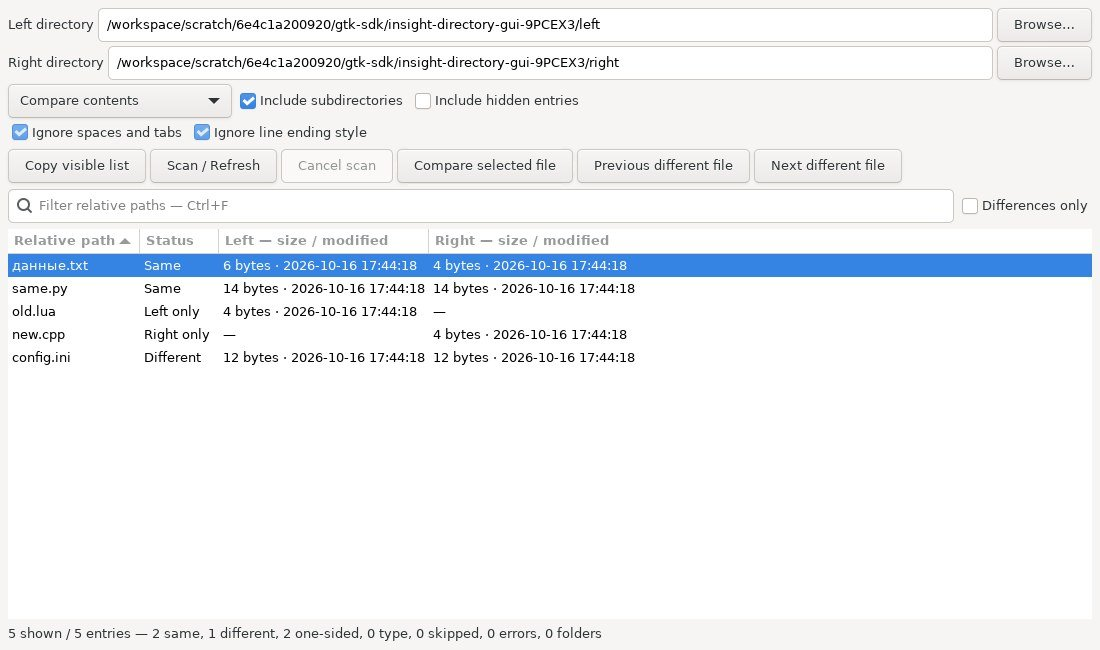
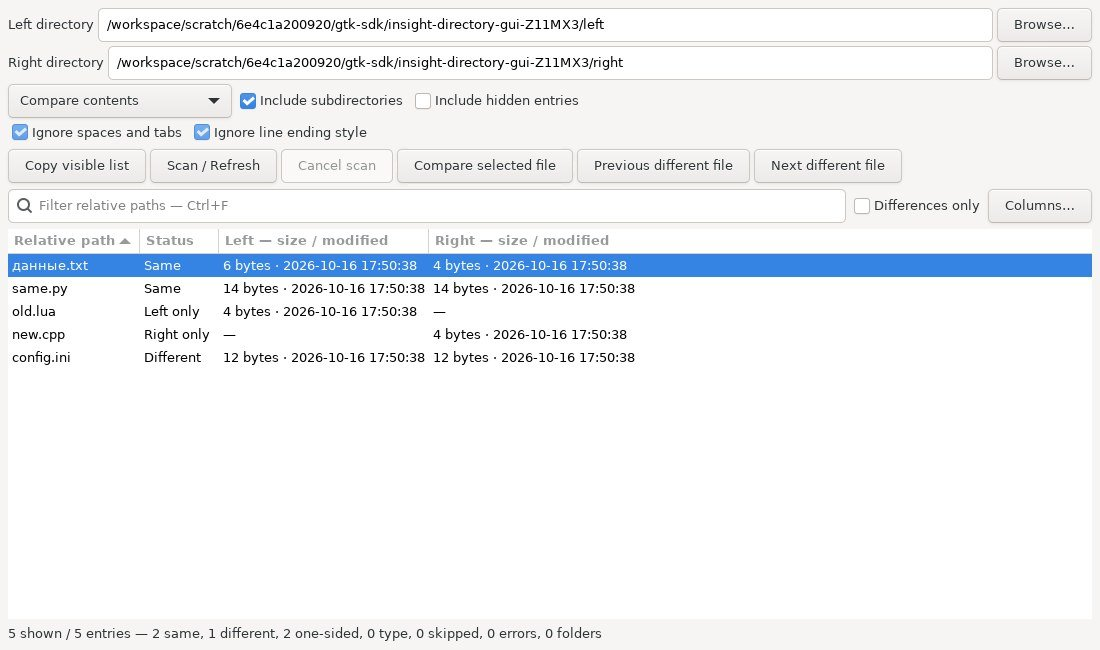
Add Directory Compare column visibility controls

diff --git a/src/insight-directory.c b/src/insight-directory.c
@@ -194,6 +194,17 @@ static gboolean mouse(GtkWidget *widget,GdkEventButton *event,gpointer data) {
  if(gtk_tree_view_get_path_at_pos(GTK_TREE_VIEW(widget),(gint)event->x,(gint)event->y,&path,NULL,NULL,NULL)) { gtk_tree_view_set_cursor(GTK_TREE_VIEW(widget),path,NULL,FALSE);gtk_tree_path_free(path); }
  gtk_menu_popup_at_pointer(GTK_MENU(context_menu(data)),(GdkEvent*)event);return TRUE;
 }
+static void column_toggled(GtkCheckMenuItem *item,gpointer column) { gtk_tree_view_column_set_visible(GTK_TREE_VIEW_COLUMN(column),gtk_check_menu_item_get_active(item)); }
+static GtkWidget *columns_menu(Directory *d) {
+ GtkWidget *menu=gtk_menu_new();GList *columns=gtk_tree_view_get_columns(GTK_TREE_VIEW(d->view));guint i=0;
+ for(GList *p=columns;p;p=p->next,i++) {
+  GtkTreeViewColumn *column=p->data;GtkWidget *item=gtk_check_menu_item_new_with_label(gtk_tree_view_column_get_title(column));
+  gtk_check_menu_item_set_active(GTK_CHECK_MENU_ITEM(item),gtk_tree_view_column_get_visible(column));gtk_widget_set_sensitive(item,i!=0);
+  gtk_menu_shell_append(GTK_MENU_SHELL(menu),item);g_signal_connect(item,"toggled",G_CALLBACK(column_toggled),column);
+ }
+ g_list_free(columns);g_signal_connect_swapped(menu,"selection-done",G_CALLBACK(gtk_widget_destroy),menu);gtk_menu_attach_to_widget(GTK_MENU(menu),d->view,NULL);gtk_widget_show_all(menu);return menu;
+}
+static void show_columns(GtkWidget *widget,gpointer data) { gtk_menu_popup_at_widget(GTK_MENU(columns_menu(data)),widget,GDK_GRAVITY_SOUTH_WEST,GDK_GRAVITY_NORTH_WEST,NULL); }
 static void method_changed(GtkComboBox *combo,gpointer data) {
  Directory *d=data;gboolean text=gtk_combo_box_get_active(combo)==INSIGHT_DIR_CONTENT;
  gtk_widget_set_sensitive(d->space,text);gtk_widget_set_sensitive(d->eol,text);
@@ -226,7 +237,7 @@ static Directory *directory_new(GtkWidget *parent) {
  GtkWidget *bar=gtk_box_new(GTK_ORIENTATION_HORIZONTAL,4);gtk_box_pack_start(GTK_BOX(box),bar,FALSE,FALSE,0);
  button(bar,"Copy visible list",G_CALLBACK(copy_list),d);
  d->scan=button(bar,"Scan / Refresh",G_CALLBACK(start),d);gtk_widget_set_name(d->scan,"insight-directory-scan");d->cancel_button=button(bar,"Cancel scan",G_CALLBACK(cancel_scan),d);d->open=button(bar,"Compare selected file",G_CALLBACK(open_pair),d);gtk_widget_set_name(d->open,"insight-directory-open");d->previous=button(bar,"Previous different file",G_CALLBACK(step),d);d->next=button(bar,"Next different file",G_CALLBACK(step),d);
- GtkWidget *filters=gtk_box_new(GTK_ORIENTATION_HORIZONTAL,4);gtk_box_pack_start(GTK_BOX(box),filters,FALSE,FALSE,0);d->filter_entry=gtk_search_entry_new();gtk_entry_set_placeholder_text(GTK_ENTRY(d->filter_entry),"Filter relative paths — Ctrl+F");gtk_box_pack_start(GTK_BOX(filters),d->filter_entry,TRUE,TRUE,0);d->different=check(filters,"Differences only",FALSE);
+ GtkWidget *filters=gtk_box_new(GTK_ORIENTATION_HORIZONTAL,4);gtk_box_pack_start(GTK_BOX(box),filters,FALSE,FALSE,0);d->filter_entry=gtk_search_entry_new();gtk_entry_set_placeholder_text(GTK_ENTRY(d->filter_entry),"Filter relative paths — Ctrl+F");gtk_box_pack_start(GTK_BOX(filters),d->filter_entry,TRUE,TRUE,0);d->different=check(filters,"Differences only",FALSE);button(filters,"Columns…",G_CALLBACK(show_columns),d);
  d->store=gtk_list_store_new(DC_COLUMNS,G_TYPE_UINT,G_TYPE_STRING,G_TYPE_STRING,G_TYPE_STRING,G_TYPE_STRING,G_TYPE_STRING,G_TYPE_INT,G_TYPE_BOOLEAN);
  d->filtered=gtk_tree_model_filter_new(GTK_TREE_MODEL(d->store),NULL);gtk_tree_model_filter_set_visible_func(GTK_TREE_MODEL_FILTER(d->filtered),visible,d,NULL);GtkTreeModel *sorted=gtk_tree_model_sort_new_with_model(d->filtered);d->view=gtk_tree_view_new_with_model(sorted);gtk_widget_set_name(d->view,"insight-directory-files");g_object_unref(sorted);gtk_tree_view_set_tooltip_column(GTK_TREE_VIEW(d->view),DC_DETAIL);
  const gchar *labels[]={"Relative path","Status","Left — size / modified","Right — size / modified"};

diff --git a/insight/tests/directory_compare_gui_test.c b/insight/tests/directory_compare_gui_test.c
@@ -42,6 +42,10 @@ int main(int argc,char **argv) {
  gtk_toggle_button_set_active(GTK_TOGGLE_BUTTON(d->different),FALSE);gtk_toggle_button_set_active(GTK_TOGGLE_BUTTON(d->space),TRUE);gtk_toggle_button_set_active(GTK_TOGGLE_BUTTON(d->eol),TRUE);start(NULL,d);wait_scan(d);
  gint sort_column;GtkSortType sort_order;g_assert_true(gtk_tree_sortable_get_sort_column_id(GTK_TREE_SORTABLE(gtk_tree_view_get_model(GTK_TREE_VIEW(d->view))),&sort_column,&sort_order));g_assert_cmpint(sort_column,==,DC_PATH);g_assert_cmpint(sort_order,==,GTK_SORT_DESCENDING);
  g_assert_true(select_path(d,"данные.txt"));g_assert_cmpint(selected_entry(d)->status,==,INSIGHT_DIR_SAME);open_pair(NULL,d);g_assert_cmpuint(opened_flags,==,3);
+ GtkWidget *column_menu=columns_menu(d);GList *column_items=gtk_container_get_children(GTK_CONTAINER(column_menu));g_assert_cmpuint(g_list_length(column_items),==,4);
+ g_assert_false(gtk_widget_get_sensitive(column_items->data));gtk_check_menu_item_set_active(GTK_CHECK_MENU_ITEM(g_list_nth_data(column_items,2)),FALSE);
+ g_assert_false(gtk_tree_view_column_get_visible(gtk_tree_view_get_column(GTK_TREE_VIEW(d->view),2)));
+ gtk_check_menu_item_set_active(GTK_CHECK_MENU_ITEM(g_list_nth_data(column_items,2)),TRUE);g_list_free(column_items);gtk_widget_destroy(column_menu);
  GtkWidget *menu=context_menu(d);g_assert_nonnull(menu);gtk_widget_destroy(menu);
  const gchar *capture=g_getenv("INSIGHT_DIRECTORY_CAPTURE");
  if(capture) {

diff --git a/insight/docs/directory-compare.md b/insight/docs/directory-compare.md
@@ -104,3 +104,7 @@ Windows and Android have not been executed in this series.
 
 Reference: [Source Insight Directory Compare](https://www.sourceinsight.com/doc/v4/userguide/Manual/Command_Reference/Directory_Compare.htm)
 and [Directory Compare Options](https://www.sourceinsight.com/doc/v4/userguide/Manual/Command_Reference/Directory_Compare_Options.htm).
+
+**Columns…** toggles Status, Left metadata and Right metadata for this window.
+Relative path stays visible. Hiding a sorted column keeps its sort order;
+Copy visible list still exports all four report fields for the visible rows.

diff --git a/insight/docs/en/directory-compare.md b/insight/docs/en/directory-compare.md
@@ -104,3 +104,7 @@ Windows and Android have not been executed in this series.
 
 Reference: [Source Insight Directory Compare](https://www.sourceinsight.com/doc/v4/userguide/Manual/Command_Reference/Directory_Compare.htm)
 and [Directory Compare Options](https://www.sourceinsight.com/doc/v4/userguide/Manual/Command_Reference/Directory_Compare_Options.htm).
+
+**Columns…** toggles Status, Left metadata and Right metadata for this window.
+Relative path stays visible. Hiding a sorted column keeps its sort order;
+Copy visible list still exports all four report fields for the visible rows.
